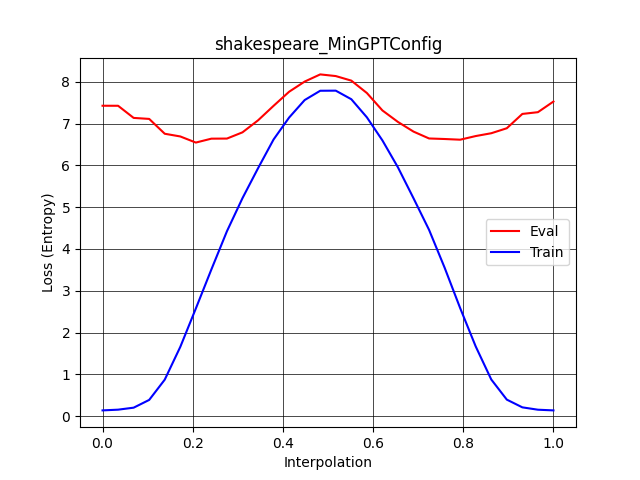
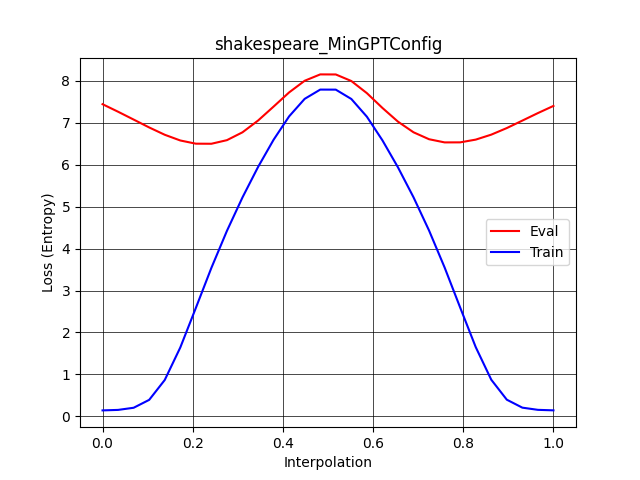
Minor changes to push to colab

diff --git a/train.py b/train.py
@@ -186,17 +186,17 @@ train(model1, optimizer1, 'model1')
 train(model2, optimizer2, 'model2')
 
 
-# ----------------- Linear Interpolation ----------------- #
-res = 30
-alphas = torch.linspace(0, 1, res)
+# # ----------------- Linear Interpolation ----------------- #
+# res = 30
+# alphas = torch.linspace(0, 1, res)
 
-error_rates = torch.zeros((2, res))
-eval_iter = 100
-for i, alpha in enumerate(alphas):
-    interpolated_model = interpolate_weights(model1, model2, baseline, alpha, device=device)
-    err = evaluate(interpolated_model, eval_iter=eval_iter, mode='val')
-    error_rates[0, i] = err
-    err = evaluate(interpolated_model, eval_iter=eval_iter, mode='train')
-    error_rates[1, i] = err
+# error_rates = torch.zeros((2, res))
+# eval_iter = 100
+# for i, alpha in enumerate(alphas):
+#     interpolated_model = interpolate_weights(model1, model2, baseline, alpha, device=device)
+#     err = evaluate(interpolated_model, eval_iter=eval_iter, mode='val')
+#     error_rates[0, i] = err
+#     err = evaluate(interpolated_model, eval_iter=eval_iter, mode='train')
+#     error_rates[1, i] = err
 
-visualize_interpolation(alphas, error_rates, dir_path, f'{dataset}_{model_config.__class__.__name__}')
+# visualize_interpolation(alphas, error_rates, dir_path, f'{dataset}_{model_config.__class__.__name__}')

diff --git a/interpolate.py b/interpolate.py
@@ -125,9 +125,8 @@ def evaluate(model, eval_iter='all', mode='train'):
             
             # Accumulate loss
             total_loss += loss.detach().item()
-            count += batch_size
-        print(f"Count: {count}")
-        total_loss /= count
+        print(f"Count: {num_batches}")
+        total_loss /= num_batches
 
     else:
         assert type(eval_iter) == int, "eval_iter must be 'all' or integer"
